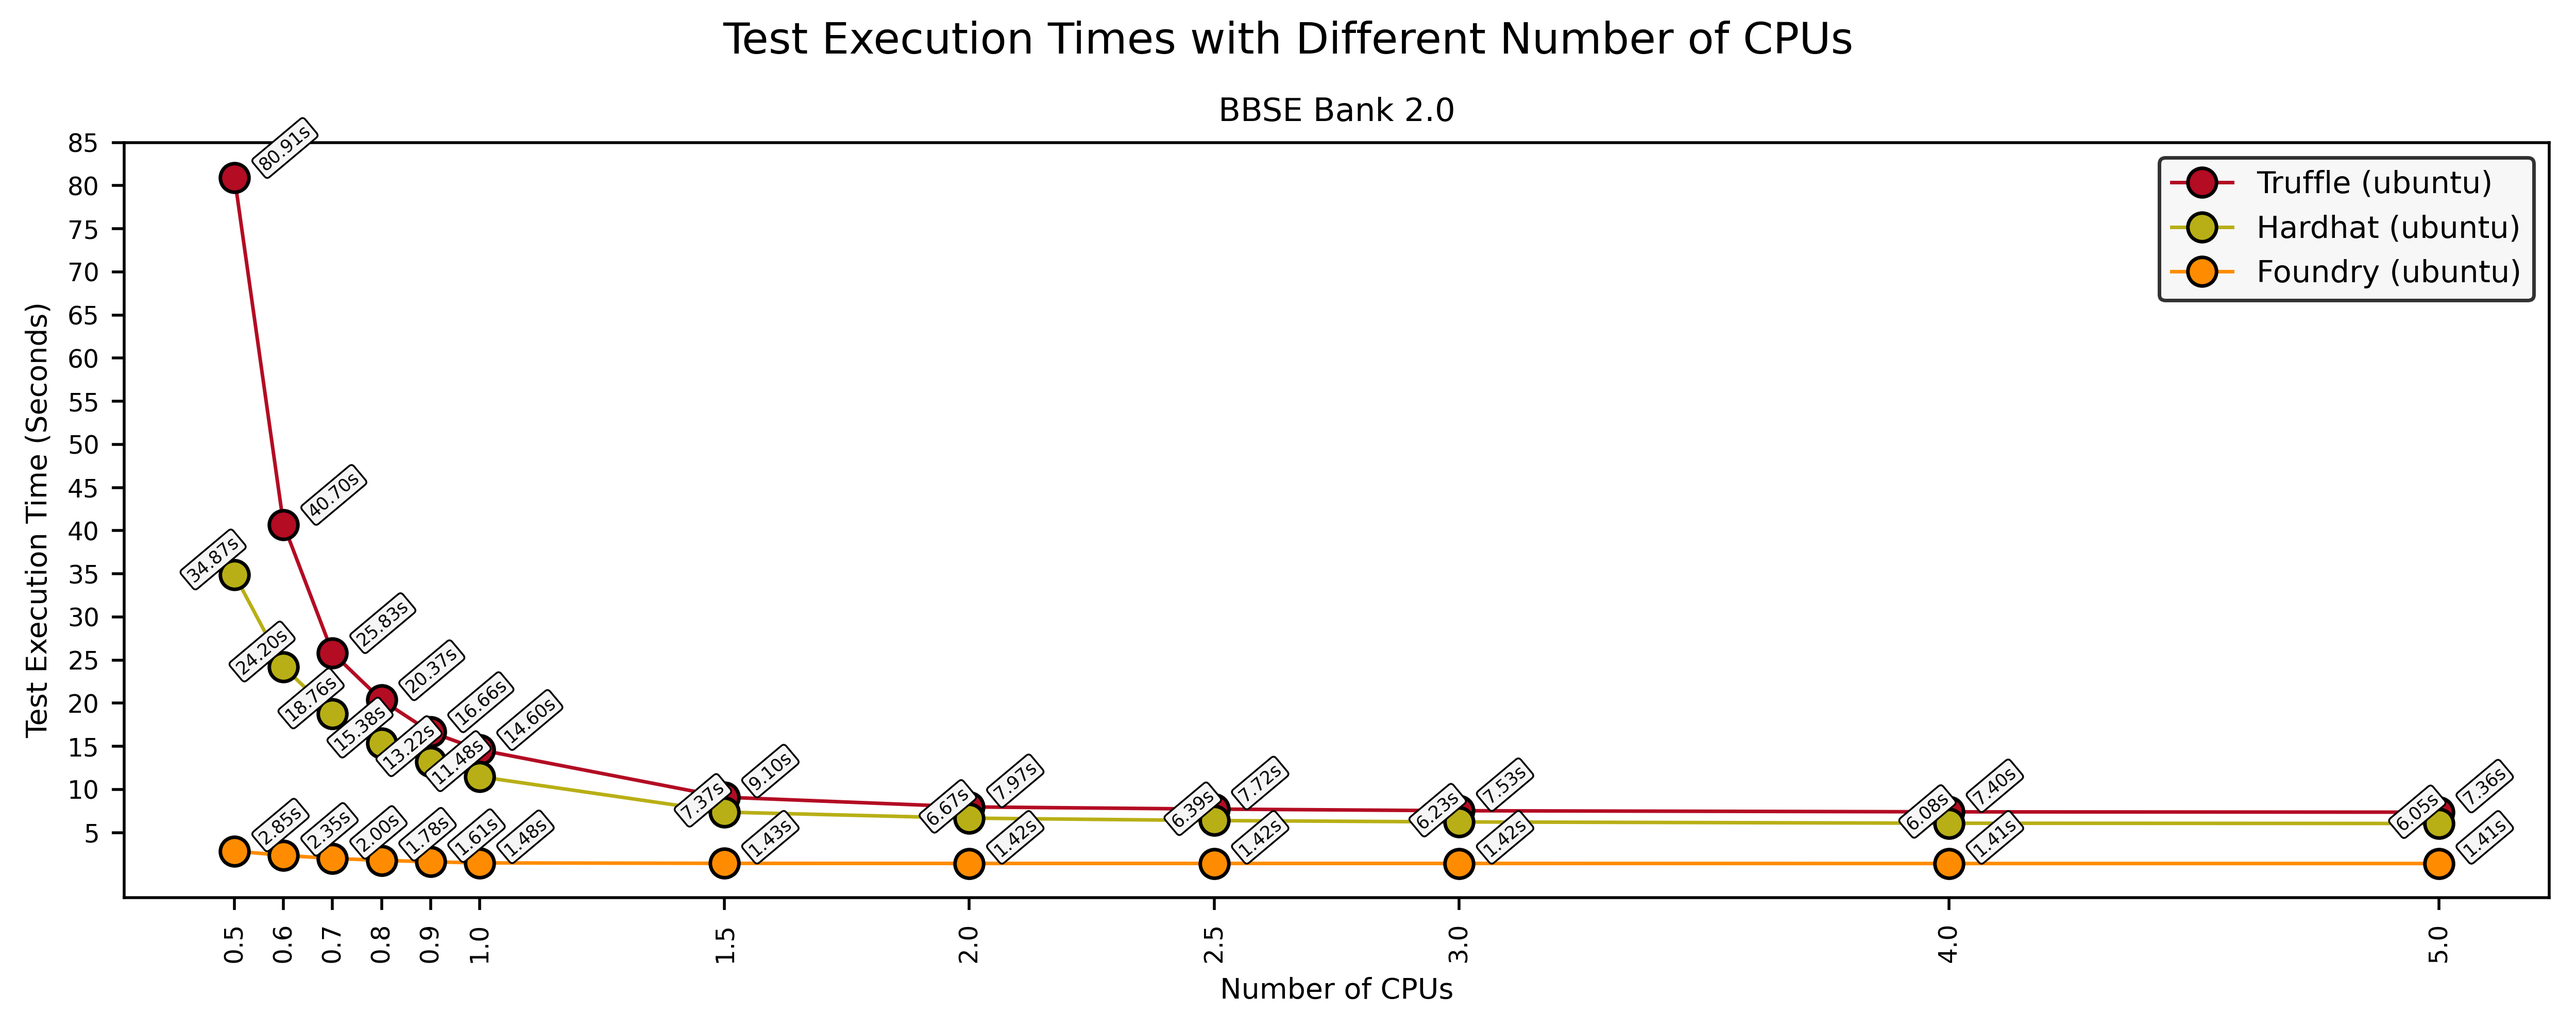
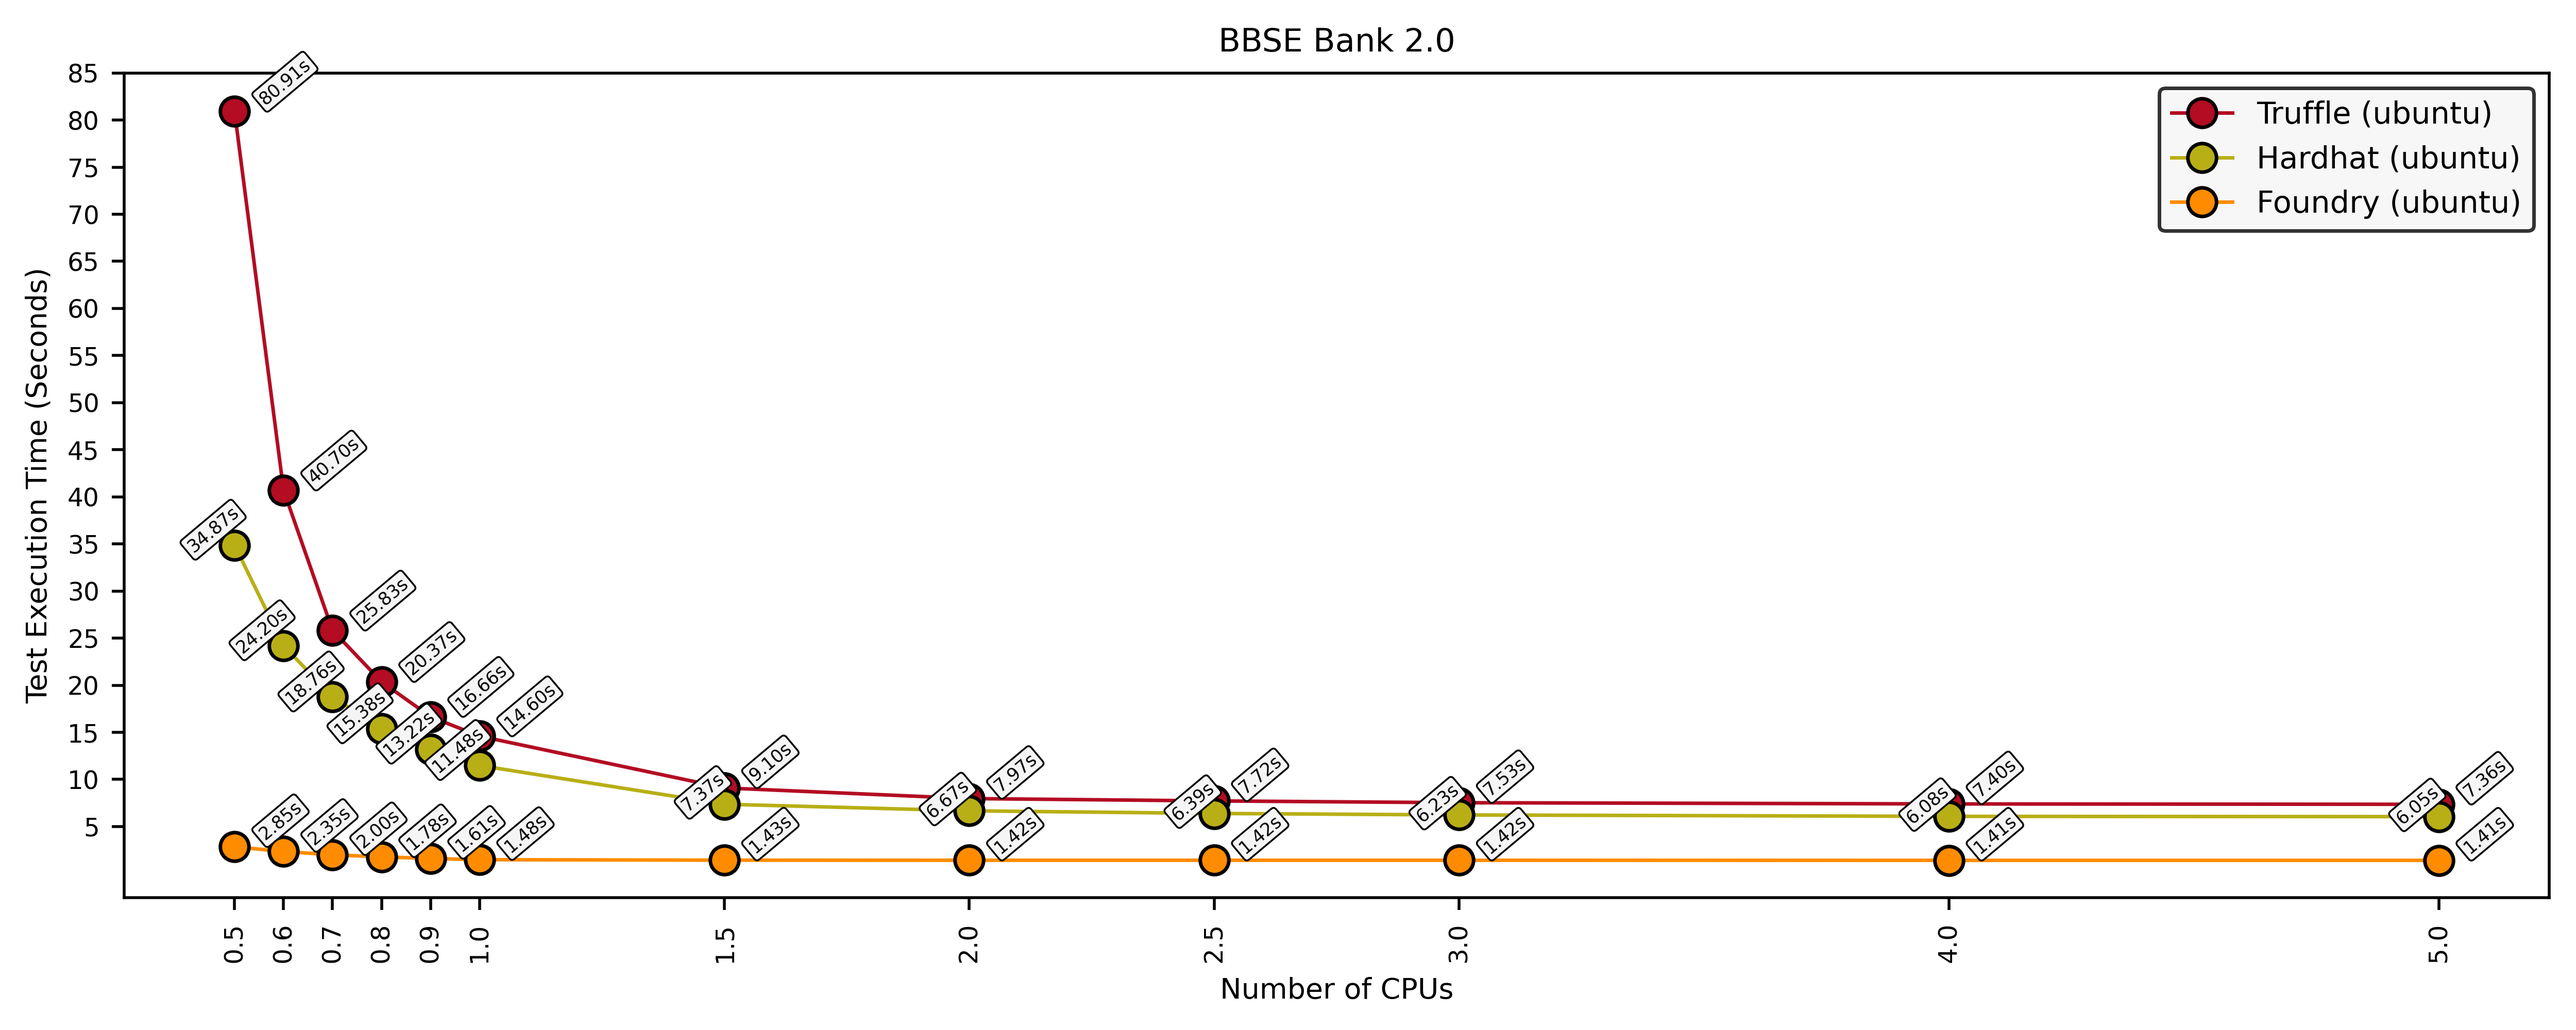
update graph styles

diff --git a/benchmarking/graphs/make_graph.py b/benchmarking/graphs/make_graph.py
@@ -27,7 +27,7 @@ def create_graph(graph_metadata, projects, frameworks):
       fig, axes = plt.subplots(1, len(projects), figsize=metadata["fig_size"])
       project_data = projects
 
-    fig.suptitle(metadata["title"])
+    # fig.suptitle(metadata["title"])
     max_y_value = 0
 
     # Break out of the look if the project does not have this type of data

diff --git a/benchmarking/graphs/data/data_loader.py b/benchmarking/graphs/data/data_loader.py
@@ -12,6 +12,6 @@ def extract_local_test_results(projects):
       local_test_results[framework_name]["values"].append(result)
 
   return [{
-    "name": " ".join([project["name"] for project in projects]),
+    "name": " and ".join([project["name"] for project in projects]),
     "tests_local": list(local_test_results.values())
   }]

diff --git a/benchmarking/graphs/data/metadata.py b/benchmarking/graphs/data/metadata.py
@@ -72,7 +72,7 @@ GRAPH_METADATA = [
   {
     "id": "LocalCompilationTestingTimes",
     "title": "Compilation and Testing Times of Different Frameworks",
-    "fig_size": (7, 4),
+    "fig_size": (8, 4),
     "xlabel": "Smart Contract Project",
     "ylabel": "Compilation and Testing Time (Seconds)",
     "test_type": "local",
